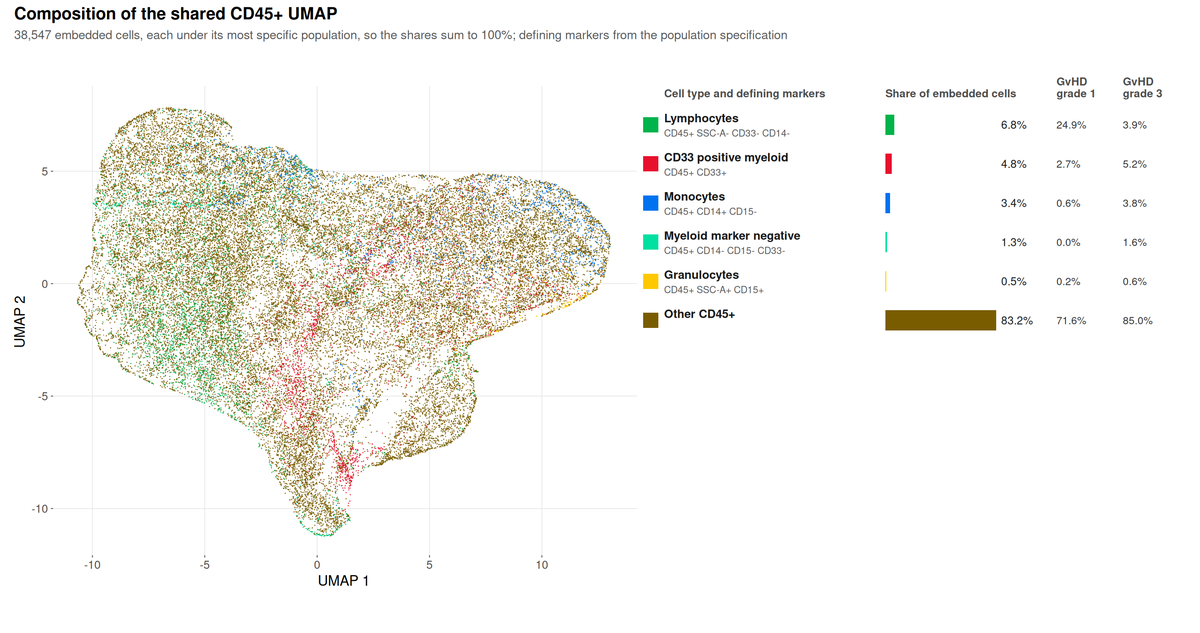
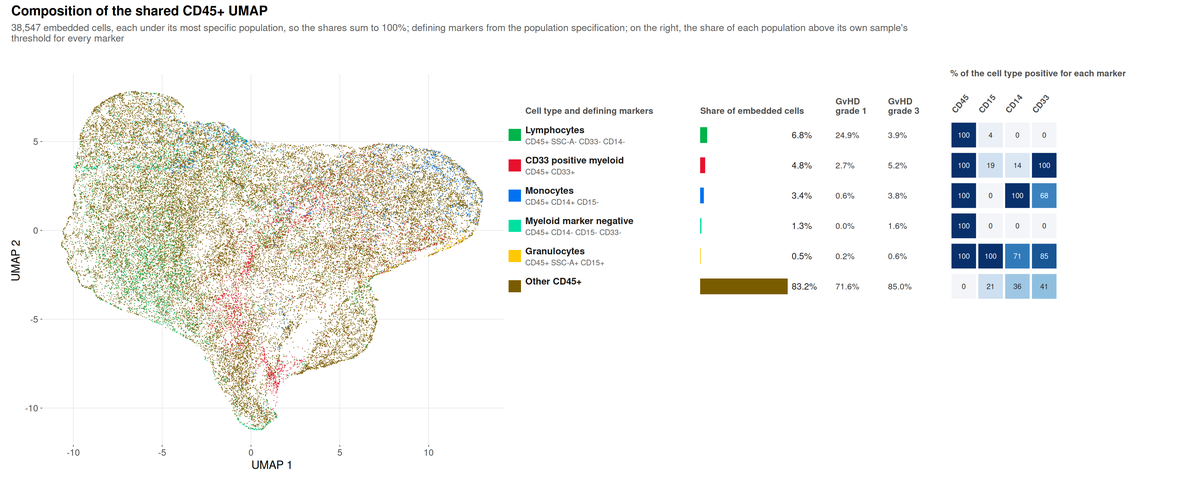
Add marker positivity and per-timepoint figures to the composition UMAP
umap_composition.png keeps its cell-type legend and gains, to its right
and on the same rows, the percent of each cell type above its own
sample's threshold for every marker the panel thresholds. The calls are
read from the scored populations at each embedded cell's event, so
markers the UMAP was not built on are covered too. population_
composition.csv carries them as pct_pos_<marker> columns, and explore
mode draws the same grid from each cluster's fraction positive.

Where the sheet has a timepoint column, umap_composition_<timepoint>.png
repeats the figure for each visit on the pooled map's axes and in its row
order, a population absent at a visit reading 0%, with the tables in
population_composition_by_timepoint.csv. The report places the visits
beside the pooled figure.

diff --git a/NEWS.md b/NEWS.md
@@ -73,6 +73,14 @@ most specific label, so the shares sum to 100, unlike
 `population_frequencies.csv`, where the gates overlap. The catch-all is part of
 the composition and is drawn in its own colour beneath the populations.
 
+To the right of the legend, on the same rows, a grid gives the percent of each
+cell type above its own sample's threshold for every marker the panel
+thresholds, not only the markers the UMAP was built on; the table carries the
+same numbers as `pct_pos_<marker>` columns. Where the sheet has a `timepoint`
+column, `umap_composition_<timepoint>.png` repeats the figure for each visit on
+the pooled map's axes and in its row order, a population absent at a visit
+reading 0%, and `population_composition_by_timepoint.csv` holds the tables.
+
 **Explore mode writes the same.** `explore_cluster_mfi.csv` with
 `explore_cluster_mfi_heatmap.png`, `explore_cluster_mfi_dotplot.png` and a by-group
 heatmap; `explore_cluster_composition.csv` with `explore_umap_composition.png`,

diff --git a/.claude/skills/cyraven/references/interpretation.md b/.claude/skills/cyraven/references/interpretation.md
@@ -365,7 +365,11 @@ positive). Compare `mfi` across runs only at matched instrument settings.
 **`population_composition.csv`** / **`umap_composition.png`**: each population's
 share of the embedded cells under its most specific label, so the shares sum to
 100 -- unlike `population_frequencies.csv`, whose gates overlap. Do not quote a
-composition share as a frequency of CD45+.
+composition share as a frequency of CD45+. The `pct_pos_<marker>` columns (the
+grid right of the legend) are the percent of each population above its own
+sample's threshold; a population's defining markers read near 0 or 100 by
+construction. `umap_composition_<timepoint>.png` and
+`population_composition_by_timepoint.csv` repeat it per visit.
 Multiplicity is adjusted **within each measure**, not across both, because the
 two are strongly correlated summaries of the same events and pooling them would
 over-penalise every result.
